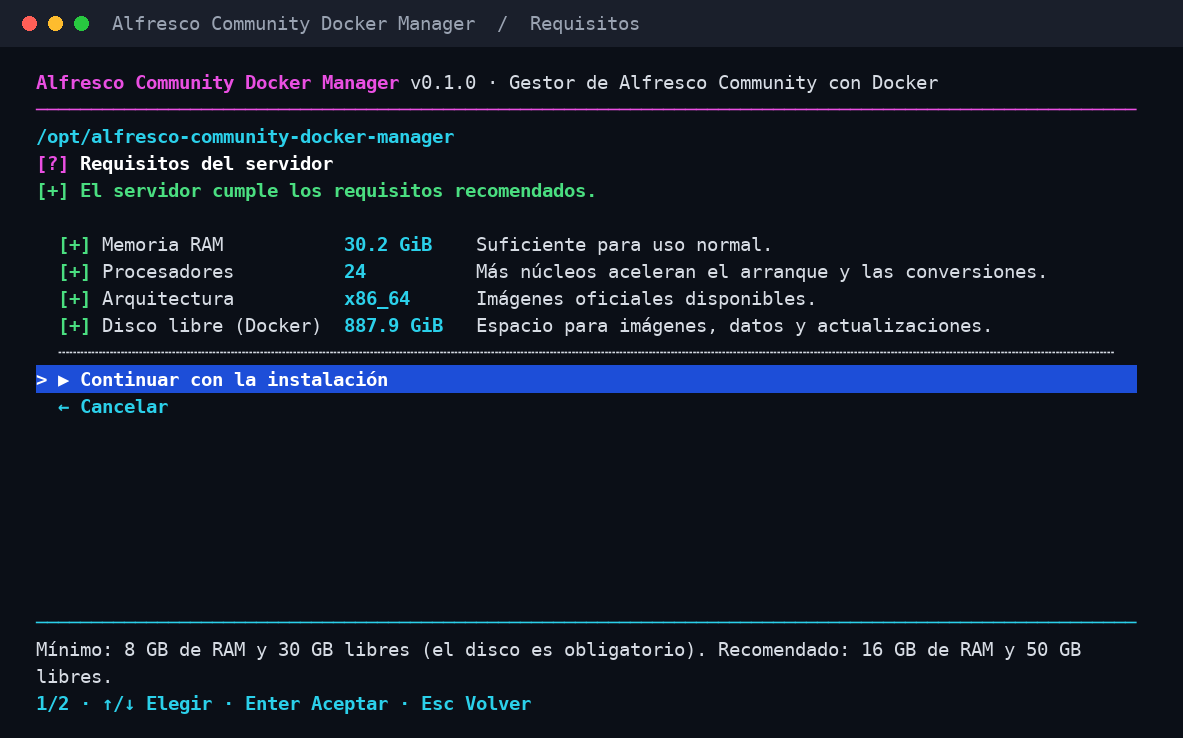
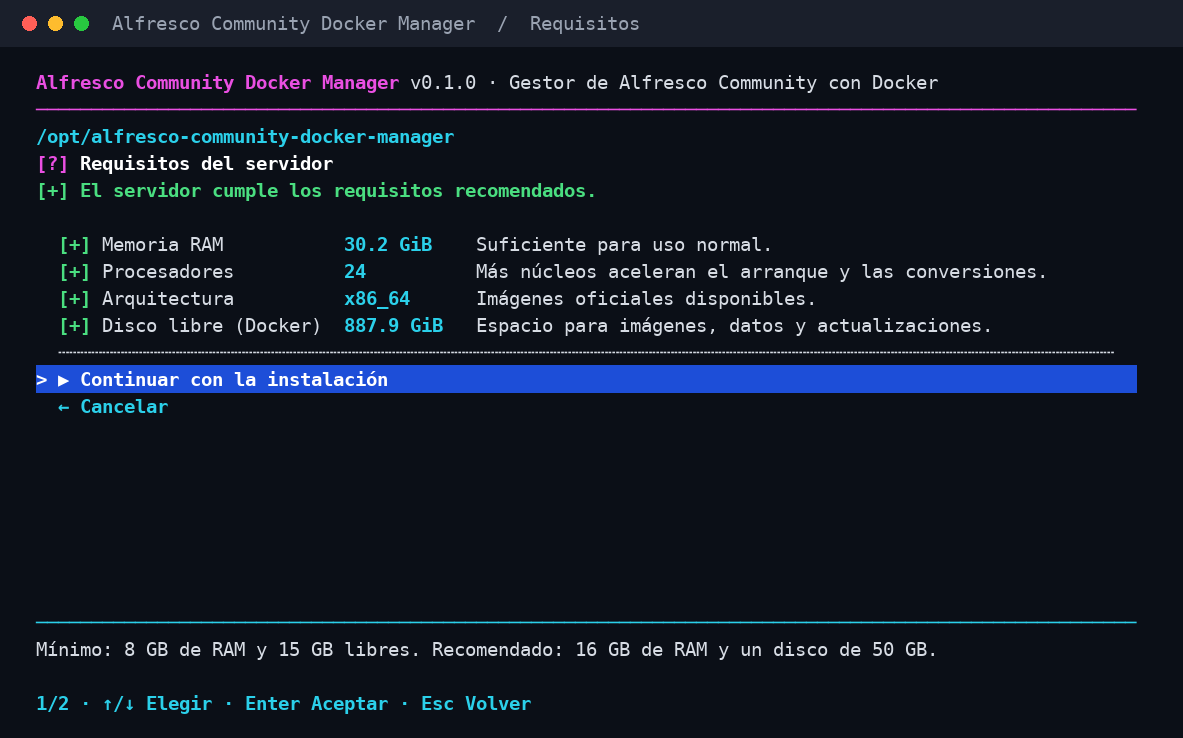
Base disk requirements on measured installation size
The installation takes about 12 GB (8 GB of unpacked images, 3 GB of
compressed copies kept by Docker 29, data and logs), so requiring 30 GB
free blocked a fresh 30 GB Ubuntu server where Alfresco fits.

- Block only below 15 GB free, or when the disk would pass 85 % after
  installing (Elasticsearch stops indexing there).
- Below 35 GB free, warn that updates will need «Free up space» first;
  a 50 GB disk is recommended.
- Before an update, estimate the space of the new images from the
  components that change and refuse to start when it would not fit.
- README: disk examples for 30 GB and 50 GB servers.

Changed region(s): [[0.3652, 0.8726, 0.9129, 0.9038], [0.0304, 0.9038, 0.0913, 0.935]]

diff --git a/acdm/requirements.py b/acdm/requirements.py
@@ -1,8 +1,11 @@
 """Server requirements checked before installing (and disk headroom checked daily).
 
 Measured on Alfresco 26.2: the containers use about 6.7 GiB at rest and may grow to their
-10 GiB limits; Linux needs about 1 GiB more. Images take about 11 GiB and an update keeps
-the previous ones until «Free up space». Elasticsearch stops indexing at 85 % disk usage.
+10 GiB limits; Linux needs about 1 GiB more. The images take about 8 GiB unpacked plus about
+3 GiB of compressed copies (Docker 29 containerd store): about 12 GiB with data and logs. An
+update keeps the previous images until «Free up space» (up to about 10 GiB more). The
+pre-update backup is only the SQL dump and certificates. Elasticsearch stops indexing at 85 %
+disk usage, so the disk must stay below it.
 """
 from __future__ import annotations
 
@@ -16,22 +19,28 @@ GIB = 1024 ** 3
 # A server sold with 8 GB reports roughly 7.6-7.8 GiB to Linux; accept it as 8 GB.
 MINIMUM_MEMORY = int(7.5 * GIB)
 RECOMMENDED_MEMORY = 15 * GIB
-MINIMUM_DISK = 30 * GIB
-RECOMMENDED_DISK = 50 * GIB
+# Room for the installation itself (about 12 GiB) plus a margin.
+MINIMUM_DISK = 15 * GIB
+# Below this, Alfresco fits but an update needs «Free up space» first. A 50 GB disk is recommended.
+COMFORTABLE_DISK = 35 * GIB
 MINIMUM_DATA_DISK = 5 * GIB
 IMAGES = 12 * GIB
+UPDATE_MARGIN = 2 * GIB
 SEARCH_LIMIT = 0.85
 ARCHITECTURES = ('x86_64', 'amd64', 'aarch64', 'arm64')
 
+# Bilingual command-line messages, by the note of a blocking or low-memory row.
 MESSAGES = {
-    'memory': ('Alfresco necesita al menos 8 GB de RAM; con %s es probable que no pueda arrancar por falta de memoria',
-               'Alfresco needs at least 8 GB of RAM; with %s it will probably fail to start for lack of memory'),
-    'disk': ('Se necesitan al menos 30 GB libres para las imágenes y los datos; hay %s',
-             'At least 30 GB of free disk is needed for images and data; %s available'),
-    'data_disk': ('La carpeta de datos necesita al menos 5 GB libres; hay %s',
-                  'The data folder needs at least 5 GB free; %s available'),
-    'architecture': ('Arquitectura no compatible: %s (se necesita amd64 o arm64)',
-                     'Unsupported architecture: %s (amd64 or arm64 required)'),
+    'req_memory_low': ('Alfresco necesita al menos 8 GB de RAM; con %s es probable que no pueda arrancar por falta de memoria',
+                       'Alfresco needs at least 8 GB of RAM; with %s it will probably fail to start for lack of memory'),
+    'req_disk_error': ('Se necesitan al menos 15 GB libres para instalar Alfresco; hay %s',
+                       'At least 15 GB of free disk is needed to install Alfresco; %s available'),
+    'req_disk_full': ('Tras instalar, el disco quedaría por encima del 85 %% (%s libres) y la búsqueda no podría indexar',
+                      'After installing the disk would exceed 85 %% (%s free) and search could not index'),
+    'req_data_disk_error': ('La carpeta de datos necesita al menos 5 GB libres; hay %s',
+                            'The data folder needs at least 5 GB free; %s available'),
+    'req_architecture_error': ('Arquitectura no compatible: %s (se necesita amd64 o arm64)',
+                               'Unsupported architecture: %s (amd64 or arm64 required)'),
 }
 
 
@@ -67,10 +76,11 @@ def evaluate(memory, cpus, architecture, docker_root, data_root=None, usage=shut
     root = existing(docker_root)
     disk = usage(root)
     if disk.free < MINIMUM_DISK:
-        rows.append(item('disk', human(disk.free), 'error', 'req_disk_error', human(disk.free)))
+        rows.append(item('disk', human(disk.free), 'error', 'req_disk_error'))
     elif (disk.used + IMAGES) / disk.total >= SEARCH_LIMIT:
-        rows.append(item('disk', human(disk.free), 'warning', 'req_disk_full'))
-    elif disk.free < RECOMMENDED_DISK:
+        # Elasticsearch would refuse to index from the first day.
+        rows.append(item('disk', human(disk.free), 'error', 'req_disk_full'))
+    elif disk.free < COMFORTABLE_DISK:
         rows.append(item('disk', human(disk.free), 'warning', 'req_disk_warning'))
     else:
         rows.append(item('disk', human(disk.free), 'ok', 'req_disk_ok'))
@@ -83,16 +93,25 @@ def evaluate(memory, cpus, architecture, docker_root, data_root=None, usage=shut
     return rows
 
 
+def message(row):
+    return ' / '.join(text % row['value'] for text in MESSAGES[row['note']])
+
+
 def errors(rows):
     """Bilingual messages of the blocking rows, for the command line."""
-    return [' / '.join(text % row['value'] for text in MESSAGES[row['key']])
-            for row in rows if row['status'] == 'error']
+    return [message(row) for row in rows if row['status'] == 'error']
 
 
 def low_memory(rows):
     """Bilingual warning when RAM is under the 8 GB minimum (installation is still allowed)."""
-    return next((' / '.join(text % row['value'] for text in MESSAGES['memory'])
-                 for row in rows if row['note'] == 'req_memory_low'), '')
+    return next((message(row) for row in rows if row['note'] == 'req_memory_low'), '')
+
+
+def update_space(path, needed, usage=shutil.disk_usage):
+    """(enough, free) for downloading `needed` bytes of new images while staying below 85 %."""
+    disk = usage(existing(path))
+    enough = disk.free >= needed + UPDATE_MARGIN and (disk.used + needed) / disk.total < SEARCH_LIMIT
+    return enough, disk.free
 
 
 def usage_ratio(path, usage=shutil.disk_usage):

diff --git a/tests/test_requirements.py b/tests/test_requirements.py
@@ -44,15 +44,56 @@ class RequirementTests(unittest.TestCase):
         self.assertEqual(status(result, 'memory'), 'warning')
         self.assertEqual(low_memory(result), '')
 
-    def test_disk_minimum_blocks(self):
-        result = rows(free=20)
-        self.assertEqual(status(result, 'disk'), 'error')
-        self.assertTrue(any('30 GB' in message for message in errors(result)))
+    def note(self, result, key):
+        return next(row for row in result if row['key'] == key)['note']
 
-    def test_disk_that_would_pass_elasticsearch_limit_warns(self):
+    def test_disk_minimum_blocks(self):
+        result = rows(free=10)
+        self.assertEqual(status(result, 'disk'), 'error')
+        self.assertTrue(any('15 GB' in message for message in errors(result)))
+
+    def test_disk_that_would_pass_elasticsearch_limit_blocks(self):
+        # 160 GB used + 12 GB of installation = 86 % of 200 GB.
         result = rows(free=40, total=200)
-        self.assertEqual(status(result, 'disk'), 'warning')
-        self.assertEqual(next(row for row in result if row['key'] == 'disk')['note'], 'req_disk_full')
+        self.assertEqual(status(result, 'disk'), 'error')
+        self.assertEqual(self.note(result, 'disk'), 'req_disk_full')
+        self.assertTrue(any('85 %' in message for message in errors(result)))
+
+    def test_clean_30_gb_ubuntu_installs_with_update_warning(self):
+        # Ubuntu Server with Docker uses about 7 GB of a 30 GB disk.
+        result = rows(free=23, total=30)
+        self.assertEqual(errors(result), [])
+        self.assertEqual(self.note(result, 'disk'), 'req_disk_warning')
+
+    def test_clean_50_gb_disk_is_comfortable(self):
+        result = rows(free=43, total=50)
+        self.assertEqual(status(result, 'disk'), 'ok')
+
+    def test_update_space_counts_new_images_and_elasticsearch_limit(self):
+        disk = lambda path: Usage(50 * GIB, 30 * GIB, 20 * GIB)
+        self.assertTrue(requirements.update_space('/', 10 * GIB, usage=disk)[0])
+        # 30 + 14 GB = 88 % of the disk: Elasticsearch would stop indexing.
+        self.assertFalse(requirements.update_space('/', 14 * GIB, usage=disk)[0])
+        # Not enough free space for the download itself.
+        small = lambda path: Usage(200 * GIB, 195 * GIB, 5 * GIB)
+        self.assertFalse(requirements.update_space('/', 4 * GIB, usage=small)[0])
+
+    def test_update_estimate_uses_changed_components_only(self):
+        from unittest.mock import Mock, patch
+        from acdm.core import Error
+        from acdm.operations import Manager
+        manager = Manager.__new__(Manager)
+        engine = Mock()
+        engine.cfg = {'images': {'share': 'share-image', 'alfresco': 'repo-image'}}
+        engine.inspect.side_effect = lambda kind, ref: {'Size': GIB}
+        with patch.object(Manager, 'docker_root', return_value='/'), \
+                patch('acdm.operations.requirements.update_space', return_value=(True, 50 * GIB)) as space:
+            self.assertEqual(manager.check_update_space(engine, ['share']), int(1.4 * GIB))
+        space.assert_called_once_with('/', int(1.4 * GIB))
+        with patch.object(Manager, 'docker_root', return_value='/'), \
+                patch('acdm.operations.requirements.update_space', return_value=(False, GIB)):
+            with self.assertRaisesRegex(Error, 'Liberar espacio'):
+                manager.check_update_space(engine, ['share', 'alfresco', 'batch-indexing'])
 
     def test_separate_data_disk_is_checked(self):
         result = rows(data='/tmp', data_free=2)

diff --git a/acdm/operations.py b/acdm/operations.py
@@ -14,7 +14,7 @@ from . import archive
 from .catalog import Catalog, same_major
 from .config import (access_url, applications, engine_of, host, image_tag, initial, port, prefer_first_public,
                      public_host, roles, start_order, validate)
-from .core import Error, Runner, confirm, read_json, stage, version_tuple
+from .core import Error, Runner, confirm, human, read_json, stage, version_tuple
 from .docker import Engine
 from .maintenance import Maintenance
 from . import requirements
@@ -83,6 +83,21 @@ class Manager(Maintenance):
         data = (storage_root or str(self.state.path / 'data')) if storage == 'directory' else None
         return requirements.evaluate(info.get('memory', 0), info.get('cpus', 0), info.get('architecture', ''),
                                      self.docker_root(), data)
+
+    def check_update_space(self, engine, roles):
+        """New images coexist with the old ones until «Free up space»: refuse to start an update
+        that would fill the disk or pass the 85 % where Elasticsearch stops indexing."""
+        needed = 0
+        for role in roles:
+            info = engine.inspect('image', engine.cfg['images'][role]) if role in engine.cfg['images'] else None
+            # A new version is about the size of the current one; Docker 29 also keeps its compressed copy.
+            needed += int(info['Size'] * 1.4) if info and info.get('Size') else 2 * requirements.GIB
+        enough, free = requirements.update_space(self.docker_root(), needed)
+        if not enough:
+            raise Error(f'Espacio insuficiente para actualizar: las imágenes nuevas necesitan unos {human(needed)} y hay '
+                        f'{human(free)} libres. Usa «Liberar espacio» y vuelve a intentarlo / Not enough disk to update: '
+                        f'the new images need about {human(needed)} and {human(free)} is free. Use «Free up space» and retry')
+        return needed
 
     def check_requirements(self, storage='directory', storage_root=None):
         rows = self.requirements(storage, storage_root)
@@ -431,6 +446,7 @@ class Manager(Maintenance):
             raise Error('Versión no disponible para actualizar / Version not available as an update')
         images_source = next(b for b in self.catalog.bundles() if b['tag'] == bundle['tag'])['images']
         changes = bundle['changes']
+        self.check_update_space(live, [role for role in changes if role in images_source])
         confirm('UPDATE-' + bundle['version'], supplied,
                 ', '.join(f'{role} {old or "—"} → {new or "—"}' for role, (old, new) in sorted(changes.items())))
         wanted = {}
@@ -493,6 +509,7 @@ class Manager(Maintenance):
         old = image_tag(cfg['images'][component])
         if tag_numbers(image_tag(target)) <= tag_numbers(old):
             raise Error('El componente ya está actualizado / Component is current')
+        self.check_update_space(live, [component])
         confirm('UPDATE-' + component.upper(), supplied, f'{component}: {old} -> {image_tag(target)}')
         changed = copy.deepcopy(cfg)
         changed['images'][component] = live.pin({component: target})[component]

diff --git a/README.md b/README.md
@@ -34,7 +34,7 @@ Versión **0.1.0** · [Licencia MIT](LICENSE)
 | | Mínimo | Recomendado |
 | --- | --- | --- |
 | Memoria RAM | **8 GB** | 16 GB |
-| Disco libre | **30 GB** + tus documentos | 50 GB + tus documentos |
+| Disco | **15 GB libres** | Disco de **50 GB** (o más, según tus documentos) |
 | Procesadores | 2 | 4 |
 | Sistema | Linux de 64 bits (amd64 o arm64) con acceso **sudo** | |
 
@@ -48,9 +48,15 @@ Antes de instalar, el gestor revisa tu servidor y te muestra el resultado:
 - **Memoria:** con menos de 8 GB te avisa de que es probable que Alfresco no
   pueda arrancar por falta de memoria. Puedes continuar bajo tu
   responsabilidad.
-- **Disco:** con menos de 30 GB libres no deja instalar; las imágenes ya ocupan
-  unos 11 GB. También avisa si el disco quedaría por encima del 85 %, porque a
-  partir de ahí la búsqueda deja de indexar.
+- **Disco:** la instalación ocupa unos 12 GB. Con menos de 15 GB libres, o si el
+  disco quedaría por encima del 85 % (a partir de ahí la búsqueda deja de
+  indexar), no deja instalar. Con menos de 35 GB libres avisa de que, para
+  actualizar, tendrás que liberar espacio antes.
+
+Por ejemplo, un disco de 30 GB con Ubuntu recién instalado deja unos 23 GB
+libres: Alfresco cabe, pero cada actualización necesitará liberar espacio. Con
+un disco de 50 GB actualizas sin preocuparte y te quedan unos 13–20 GB para
+documentos.
 
 ## Empezar
 
@@ -119,6 +125,11 @@ nueva de Alfresco o de sus componentes. Al aplicarla, el gestor:
 1. Detiene Alfresco un momento y guarda la base de datos.
 2. Actualiza a la vez todos los componentes que cambian.
 3. Arranca y comprueba que todo responde.
+
+Antes de empezar, el gestor calcula el espacio que necesitan las imágenes
+nuevas (desde ~1 GB si solo cambia Share hasta ~13 GB si cambia casi todo). Si
+no hay sitio, no empieza y te pide usar **Salud → Liberar espacio**. Las
+versiones anteriores ocupan disco hasta que lo usas.
 
 Tus documentos no se tocan. Si la actualización se interrumpe o falla, entra en
 **Recuperar operación pendiente** para continuarla o volver a la versión

diff --git a/README.en.md b/README.en.md
@@ -33,7 +33,7 @@ Version **0.1.0** · [MIT License](LICENSE)
 | | Minimum | Recommended |
 | --- | --- | --- |
 | Memory (RAM) | **8 GB** | 16 GB |
-| Free disk | **30 GB** + your documents | 50 GB + your documents |
+| Disk | **15 GB free** | A **50 GB** disk (or more, depending on your documents) |
 | Processors | 2 | 4 |
 | System | 64-bit Linux (amd64 or arm64) with **sudo** access | |
 
@@ -46,9 +46,14 @@ Before installing, the manager checks your server and shows the result:
 
 - **Memory:** with less than 8 GB it warns that Alfresco will probably fail to
   start for lack of memory. You may continue at your own risk.
-- **Disk:** with less than 30 GB free it does not install; the images alone
-  take about 11 GB. It also warns if the disk would end up above 85 %, where
-  search stops indexing.
+- **Disk:** the installation takes about 12 GB. With less than 15 GB free, or
+  if the disk would end up above 85 % (where search stops indexing), it does not
+  install. With less than 35 GB free it warns that updates will need
+  «Free up space» first.
+
+For example, a 30 GB disk with a fresh Ubuntu leaves about 23 GB free:
+Alfresco fits, but each update will need some space freed first. With a 50 GB
+disk you update without worrying and keep about 13–20 GB for documents.
 
 ## Get started
 
@@ -117,6 +122,11 @@ component update is available. When you apply it, the manager:
 1. Stops Alfresco briefly and saves the database.
 2. Updates every component that changes, together.
 3. Starts everything and checks that it responds.
+
+Before starting, the manager estimates the space the new images need (from
+about 1 GB when only Share changes to about 13 GB when almost everything does).
+If there is not enough, it does not start and asks you to use
+**Health → Free up space**. Previous versions use disk until you do.
 
 Your documents are never touched. If an update is interrupted or fails, open
 **Recover pending operation** to resume it or go back to the previous version.
